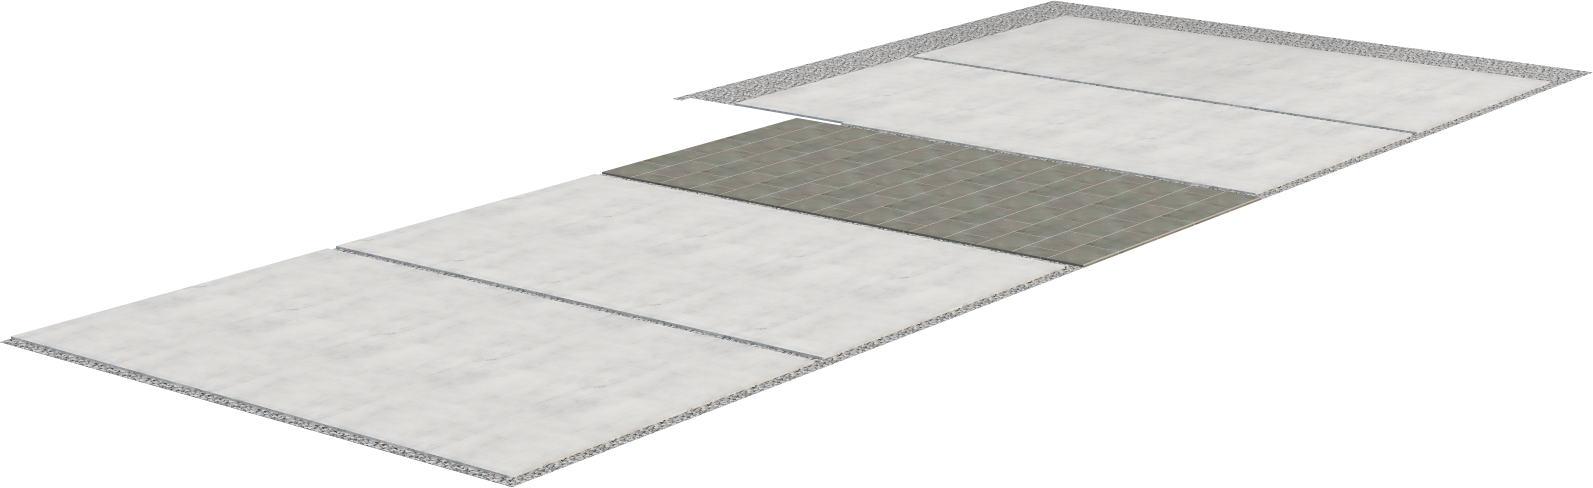
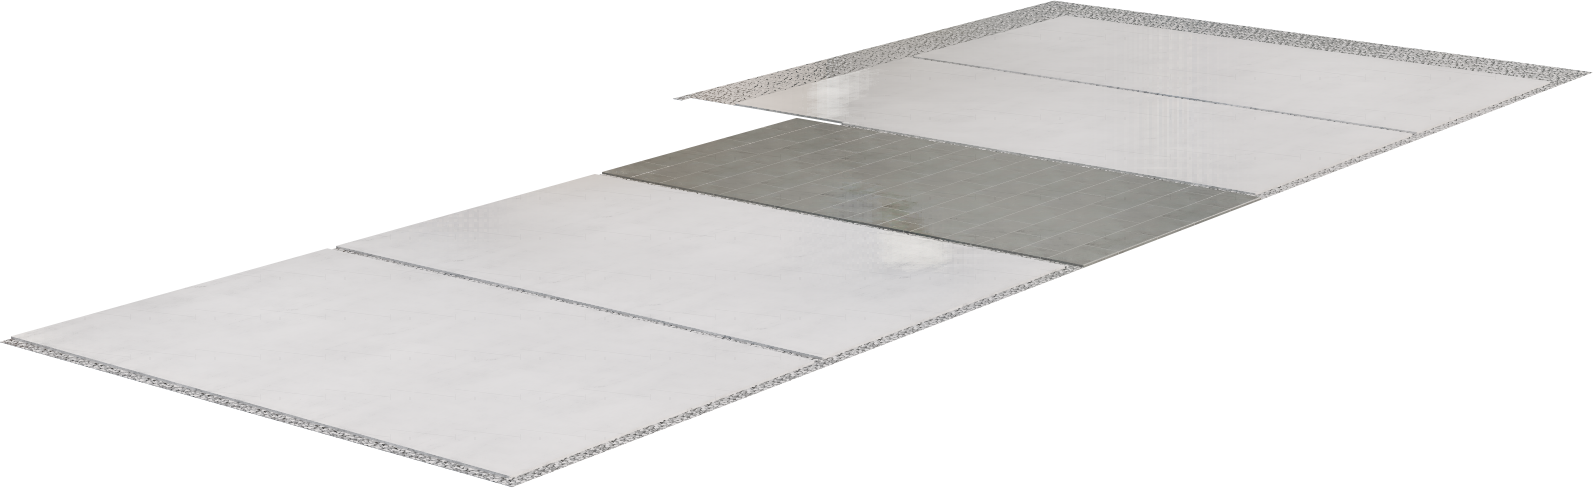
6548646

Changed region(s): [[0.5844, 0.3996, 0.6767, 0.5225], [0.4922, 0.123, 0.5844, 0.2459], [0.7997, 0.2152, 0.8305, 0.2459]]

diff --git a/js/hex.js b/js/hex.js
@@ -337,7 +337,7 @@ const HEX_IS_PRODUCTION=HEX_HOSTS.PRODUCTION.indexOf(location.hostname)!==-1;
     if(!/^[^/\\?#]+\.(?:avif|gif|jpe?g|png|svg|webp)(?:[?#].*)?$/i.test(file))return null;
     var url=new URL(file,imageRoot);
     if(sceneAsset.test(file)){
-      var version=/^(?:drawing|tree|underplant)/i.test(file)?'20261118-cropped':'20261118-diorama';
+      var version=/^(?:drawing|tree|underplant)/i.test(file)?'20261118-cropped':'20261118-diorama-2';
       url.searchParams.set('v',version);
     }
     return url.href;
